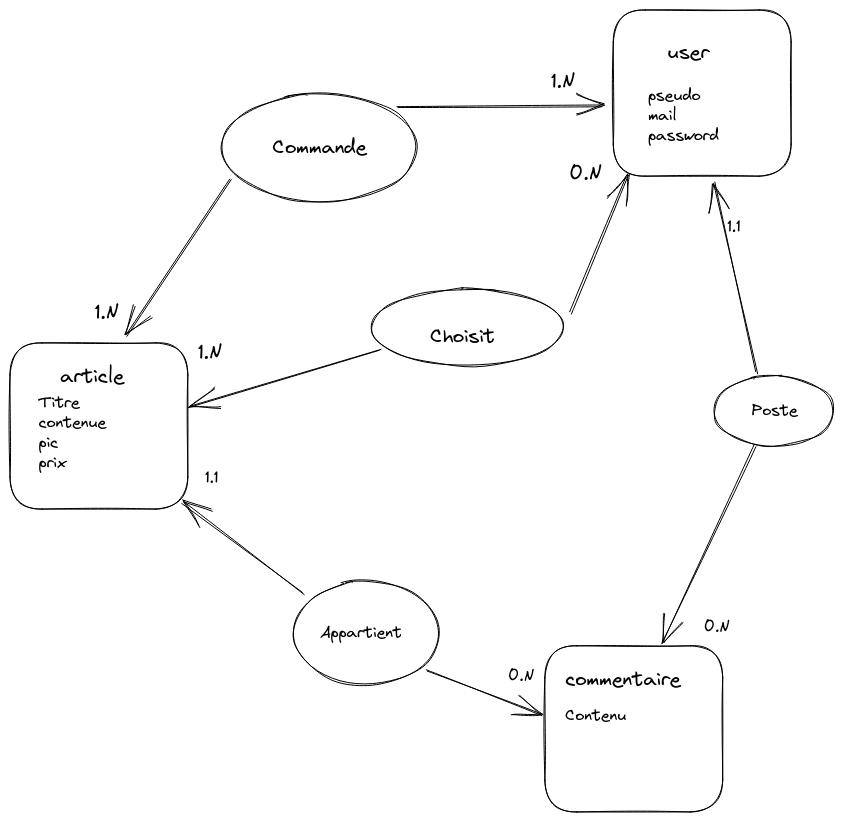
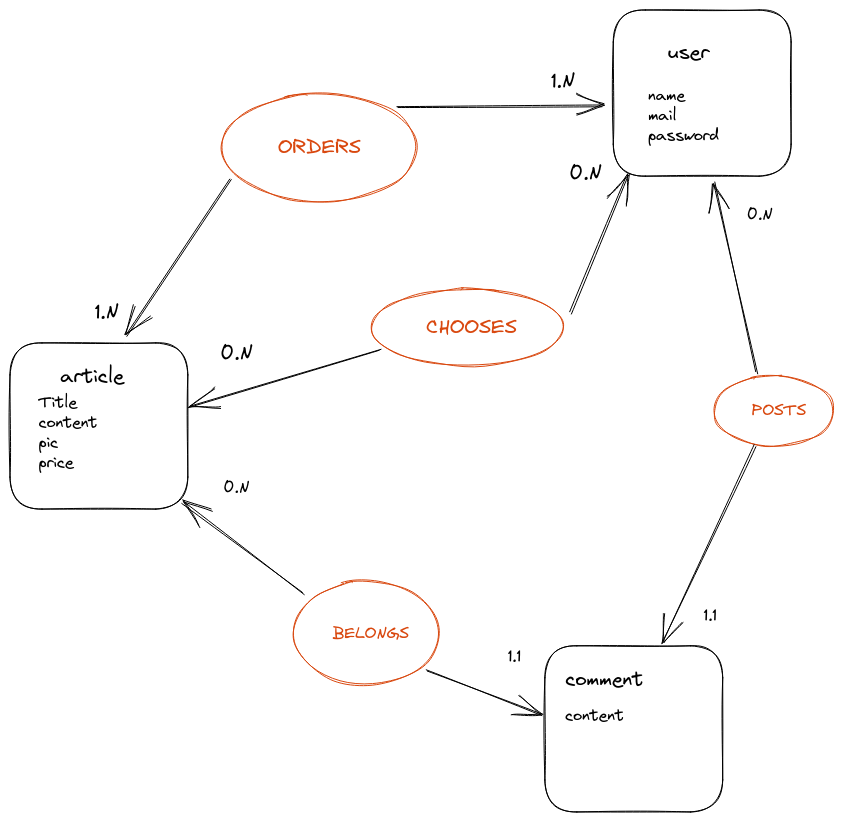
prepa

diff --git a/Documentation_Projet/Base_de_données.md b/Documentation_Projet/Base_de_données.md
@@ -2,12 +2,13 @@
 
    ## Rappel MVP :  
 
-Inscription / connection  / Achat / Menu cliquable / Panier / Chaque page prévue est accessible
+ Inscription / Connection / Filtrage des articles de A à Z  / Achat / Panier / Commentaires
 
 | En tant que |          Je souhaite              |                Afin de                       |
 |-------------|-----------------------------------|----------------------------------------------|
 | visiteur    | Créer un compte                   | M'inscrire                                   |
 | visiteur    | Voir les articles                 | Savoir si un canard me plais                 |
+| visiteur    | Filtrer les articles              | Chercher un articles                         |
 | Visiteur    | Lire les commentaires             | Consulter les avis                           |
 | Admin       | modifier un article               | gerer les articles                           |
 | Admin       | suprimer un article               | gerer les articles                           |
@@ -49,22 +50,23 @@ Inscription / connection  / Achat / Menu cliquable / Panier / Chaque page prévu
 
 |URL                              | HTTP   | Description              | données attendues         | Authorisation             |
 |---------------------------------|--------|--------------------------|---------------------------|---------------------------|
-|/admin                           | GET    | recupère un article      |  article  id              | get one article           |
-|                                 | POST   | créer un article         |  article  id              | post one article          |
-|                                 | PATCH  | modifier un article      |  article  id              | patch one article         |
-|                                 | DELETE | supprimer un   article   |  article  id              | delete one article        |
+|/admin                           | GET    | recupère un article      |  article  id              |  get one article           |
+|                                 | POST   | créer un article         |  article  id              |  post one article          |
+|                                 | PATCH  | modifier un article      |  article  id              |  patch one article         |
+|                                 | DELETE | supprimer un   article   |  article  id              |  delete one article        |
 |/user                            | POST   | Créer l'utilisateur      | email/password/pseudo     |  post user                |
 |/login                           | POST   | Connexion de l'user      | email/password/pseudo     |  post user  / verify      | 
 |/user/:id                        | GET    | recupérer un utilisateur | pseudo/password           |  get user                 | 
 |                                 | PATCH  | modifier un utilisateur  | pseudo/password           |  patch pseudo/password    | 
 |                                 | DELETE | supprimer l'utilisateur  | pseudo/password           |  delete account           |
 |/articles                        | GET    | récupère les articles    | tous les articles         |  get all articles         |
+|/articles                        | GET    | Trie de A à Z            | Tous les article          |  Order by 
 |/articles/:articlesid            | GET    | récupère 1 article       |  un article id            |  Get one article          |
 |/articles/:articleid/comment     | GET    | récupère les commentaires| des commentaires          |  Get all com from article |
 |                                 | POST   | Mettre des commentaires  |  commentaire id           |  Post one commentaire     |
 |                                 | PATCH  | modifier son commentaire |  commentaire id           |  Patch one commentaire    |
 |                                 | DELETE | supprimer son commentaire|  commentaire id           |  delete one commentaire   |
-|/user/card                       | GET    | récupéré les articles    | articles                  |  Get all articles         |
+|/user/cart                       | GET    | récupéré les articles    | articles                  |  Get all articles         |
 |                                 | PATCH  | Modifier le nb d'articles| nombres                   |  Patch nb article         |
 |                                 | DELETE | Supprimer un article     | article id                |  delete article           |
 
@@ -81,24 +83,24 @@ FAIT , voir PNG dans le repo
 
 Entité user: 
    - Unique identifier, name,password, mail
-   - #comment_identifier
-
 
 
 Entité article: 
    - Unique identifier, title, content, pic, price
-   - #comment_identifier
 
 
 Entité comment: 
    - Unique identifier, content
-
-
-Table de liaison :
-
-user_has_article:
    - #article_identifier
    - #user_identifier
 
+Tables de liaison :
 
+user_cart:
+   - #article_identifier
+   - #user_identifier
+
+user_order:
+   - #article_identifier
+   - #user_identifier
 

diff --git a/Documentation_Projet/Rappel Git.md b/Documentation_Projet/Rappel Git.md
@@ -1,0 +1,51 @@
+## Commandes Git : 
+
+
+Début de sprint: 
+
+    Git clone SSH
+
+    /!\ Ne jamais bosser sur la branche Master.
+
+    Récupérer  la branche distante en cours : git checkout develop/**
+
+
+ Début de feature :
+
+    vérifier sur quel branche on est : git branch
+
+    créer une branche : git checkout -b feature/**
+
+    vérifier sur quel branche on est : git branch
+
+enregistrement régulier : 
+
+    git add .
+    git commit -m "nom en anglais , pas de MAJ avec underscore , sans espace
+    git push
+
+ Fin de feature :
+
+    Lea récupère la pull request,  ensemble on verifie que tout est OK,  Lea envoi la pull request sur la branch develop
+
+ Fin de sprint : 
+
+    Retourner sur  la branche distante en cours : git checkout develop/**
+    git pull (récupération du repo distant)  ou git pull -r (forcage récupération du repos distant)
+    
+ Début de sprint:   
+
+  Début de feature :
+
+    vérifier sur quel branche on est : git branch
+
+    créer une branche : git checkout -b feature/**
+
+    vérifier sur quel branche on est : git branch
+
+
+    Toolbox git : 
+
+    git log --pretty=format:"%cn committed %h on %cd" : afficher tous les commit
+
+   

diff --git a/Carnet_de_bord.md b/Carnet_de_bord.md
@@ -6,4 +6,6 @@ Vendredi 15/09/2023 : Init du projet + user story + reflection arborescance
 
 Lundi 18/09/2023 : Expression des routes et requete HTTP + wireframes + charte graphique + MCD + MLD + Debut des maquettes
 
-Mardi 19/09/2023 : Partage des module solo d'hier,  discution sur les maquettes,  discution sur le MCD / MLD , reunion de gestion de projet avec Amaury et Chriss à 14h.
+Mardi 19/09/2023 : Partage des module solo d'hier,  discution sur les maquettes,  discution sur le MCD / MLD , reunion de gestion de projet avec Amaury et Chriss à 14h,  correction MCD / MLD , correction wireframe,  guide git.
+
+Mercredi 20/09/2023 : 

diff --git a/Document_de_veille.md b/Document_de_veille.md
@@ -1,4 +1,4 @@
-Tout ce qui servira aux recherches techniques
+Tout ce qui servira aux recherches techniques :
 
 Bugs rencontrés 
 
